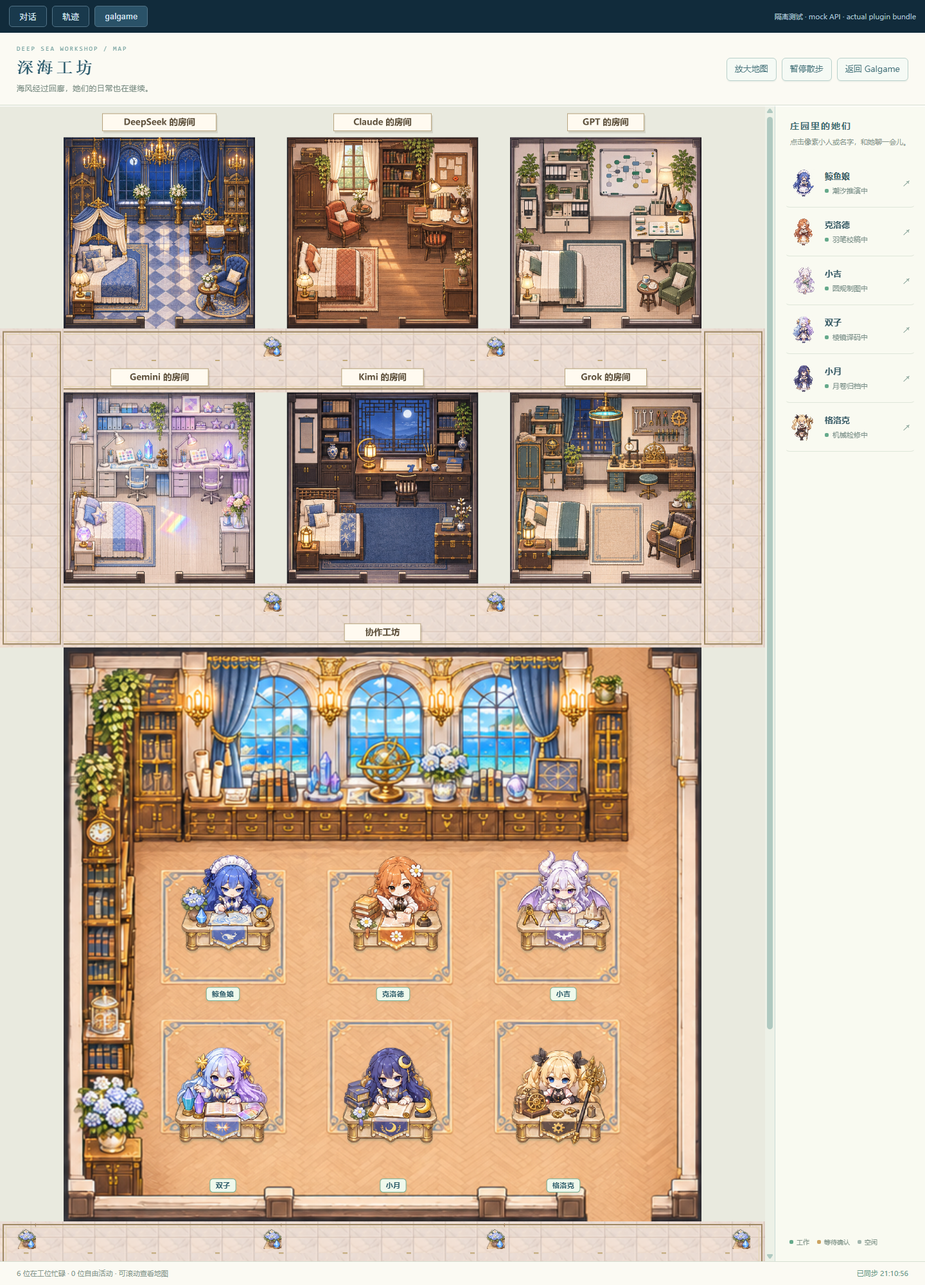
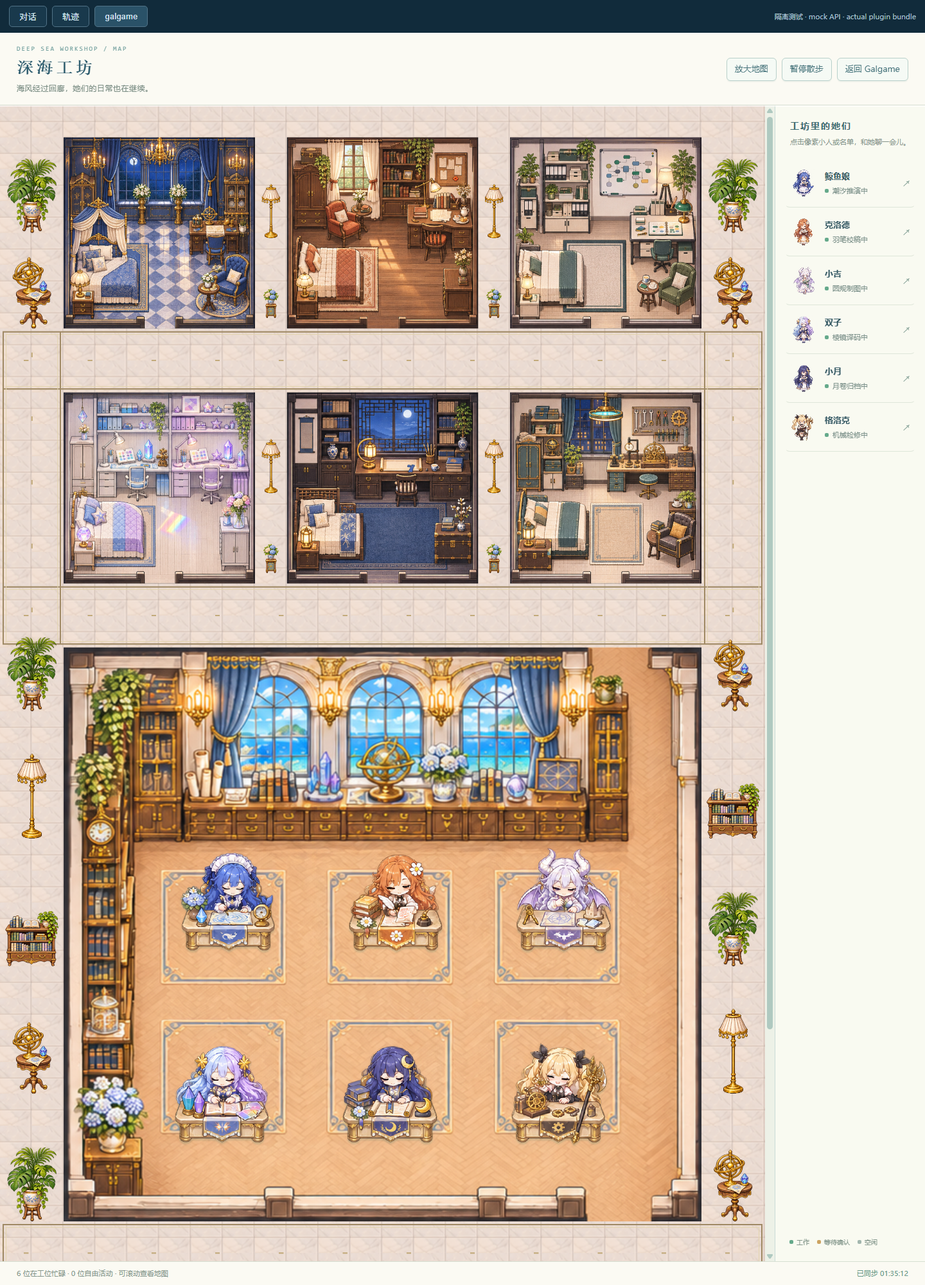
fix: fill workshop corridors and remove map labels

diff --git a/src/client/workshop-art.ts b/src/client/workshop-art.ts
@@ -13,10 +13,13 @@ export const DEFAULT_NAMES: Record<string, string> = {
 }
 export type WorkshopArtAssets = {
   atlas?: CanvasImageSource | null; roomAtlas?: CanvasImageSource | null; publicAtlas?: CanvasImageSource | null
-  residentAtlas?: CanvasImageSource | null
+  residentAtlas?: CanvasImageSource | null; decorAtlas?: CanvasImageSource | null
   workstationAtlas?: CanvasImageSource | null; atlasColumns?: number; atlasRows?: number
   residentAnchors?: Array<Array<{ x: number; y: number }>>
+  /** Per-cell opaque bounds, normalised to 0..1 in the 3×2 decoration sheet. */
+  decorBounds?: Bounds[]
 }
+export type WorkshopDecoration = { kind: number; bounds: Bounds }
 
 type MaterialPatch = { cell: number; x: number; y: number; width: number; height: number }
 const MATERIALS = {
@@ -120,7 +123,6 @@ function flowerStand(ctx: CanvasRenderingContext2D, assets: WorkshopArtAssets, t
 }
 
 function gallery(ctx: CanvasRenderingContext2D, assets: WorkshopArtAssets, hall: Bounds): void {
-  floor(ctx, assets, hall)
   ctx.save()
   ctx.beginPath(); ctx.rect(hall.x, hall.y, hall.width, hall.height); ctx.clip()
   const horizontal = hall.width > hall.height
@@ -132,14 +134,101 @@ function gallery(ctx: CanvasRenderingContext2D, assets: WorkshopArtAssets, hall:
   ctx.fillStyle = '#c2aa7a'
   if (horizontal) {
     for (let x = hall.x + 36; x < hall.x + hall.width - 20; x += 96) ctx.fillRect(x, hall.y + hall.height / 2 - 1, 7, 2)
-    // Small generated flower arrangements sit along the edge, off the walking axis.
-    for (const x of [hall.x + 22, hall.x + hall.width / 2 - 184, hall.x + hall.width / 2 + 152, hall.x + hall.width - 54]) {
-      flowerStand(ctx, assets, { x, y: hall.y + 2, width: 32, height: 40 })
-    }
   } else {
     for (let y = hall.y + 36; y < hall.y + hall.height - 20; y += 96) ctx.fillRect(hall.x + hall.width / 2 - 1, y, 2, 7)
   }
   ctx.restore()
+}
+
+function decorationFrame(frames: readonly Bounds[], index: number): Bounds {
+  const frame = frames[index]
+  return frame && [frame.x, frame.y, frame.width, frame.height].every(Number.isFinite)
+    && frame.x >= 0 && frame.y >= 0 && frame.width > 0 && frame.height > 0
+    && frame.x + frame.width <= 1.001 && frame.y + frame.height <= 1.001
+    ? frame : { x: 0, y: 0, width: 1, height: 1 }
+}
+
+function overlaps(a: Bounds, b: Bounds, padding = 0): boolean {
+  return a.x < b.x + b.width + padding && a.x + a.width > b.x - padding
+    && a.y < b.y + b.height + padding && a.y + a.height > b.y - padding
+}
+
+/** Deterministic, inspectable placement; furniture never changes the walking graph. */
+export function workshopDecorations(layout: WorkshopLayout, frames: readonly Bounds[] = []): WorkshopDecoration[] {
+  const candidates: Array<{ kind: number; x: number; y: number; compact?: boolean }> = []
+  const add = (kind: number, x: number, y: number, compact = false) => candidates.push({ kind, x, y, compact })
+  const roomRows = [...new Set(layout.rooms.filter((room) => room.kind !== 'office').map((room) => room.y))].sort((a, b) => a - b)
+  for (const y of roomRows) {
+    const rooms = layout.rooms.filter((room) => room.kind !== 'office' && room.y === y).sort((a, b) => a.x - b.x)
+    const gaps: Array<{ x: number; width: number }> = []
+    let cursor = 0
+    for (const room of rooms) { gaps.push({ x: cursor, width: room.x - cursor }); cursor = room.x + room.width }
+    gaps.push({ x: cursor, width: layout.width - cursor })
+    for (const gap of gaps) {
+      if (gap.width >= 180) {
+        add(0, gap.x + gap.width * .33, y + 150)
+        add(4, gap.x + gap.width * .67, y + 266)
+        add(5, gap.x + gap.width * .67, y + 130)
+        add(3, gap.x + gap.width * .33, y + 278)
+      } else if (gap.width >= 80) {
+        add(0, gap.x + gap.width / 2, y + 144)
+        add(5, gap.x + gap.width / 2, y + 288)
+      } else if (gap.width >= 40) {
+        add(2, gap.x + gap.width / 2, y + 152, true)
+        add(1, gap.x + gap.width / 2, y + 272, true)
+      }
+    }
+  }
+  for (let y = TILE_SIZE * 3, row = 0; y < layout.height - 20; y += TILE_SIZE * 4, row++) {
+    add([0, 2, 3, 5][row % 4], TILE_SIZE, y)
+    add([5, 3, 0, 2][row % 4], layout.width - TILE_SIZE, y)
+  }
+  for (const hall of layout.halls) if (hall.width > hall.height) {
+    for (let x = hall.x + 24; x < hall.x + hall.width - 24; x += TILE_SIZE * 4) add(1, x, hall.y + 30, true)
+  }
+
+  const navigation: Bounds[] = []
+  for (const [from, neighbors] of Object.entries(layout.edges)) for (const to of neighbors) {
+    if (from > to) continue
+    const a = layout.nodes[from], b = layout.nodes[to]
+    navigation.push({ x: Math.min(a.x, b.x) - 18, y: Math.min(a.y, b.y) - 18,
+      width: Math.abs(a.x - b.x) + 36, height: Math.abs(a.y - b.y) + 36 })
+  }
+  const doors = layout.rooms.flatMap((room) => room.doors.map((door) => ({ x: door.x - 60, y: door.y - 32, width: 120, height: 64 })))
+  const limits = [[82, 112], [60, 82], [46, 128], [80, 96], [144, 100], [88, 108]]
+  const decorations: WorkshopDecoration[] = []
+  const maximum = Math.min(40, Math.max(12, Math.ceil(layout.height / TILE_SIZE * .75)))
+  for (const candidate of candidates) {
+    const frame = decorationFrame(frames, candidate.kind)
+    const [maxWidth, maxHeight] = candidate.compact
+      ? candidate.kind === 2 ? [28, 88] : [32, 44] : limits[candidate.kind]
+    const scale = Math.min(maxWidth / frame.width, maxHeight / frame.height)
+    const width = frame.width * scale, height = frame.height * scale
+    const bounds = { x: candidate.x - width / 2, y: candidate.y - height, width, height }
+    if (bounds.x < 8 || bounds.y < 8 || bounds.x + width > layout.width - 8 || bounds.y + height > layout.height - 8) continue
+    if (layout.rooms.some((room) => overlaps(bounds, room, 6))
+      || layout.stations.some((station) => overlaps(bounds, station, 8))
+      || doors.some((door) => overlaps(bounds, door))
+      || navigation.some((edge) => overlaps(bounds, edge))
+      || decorations.some((other) => overlaps(bounds, other.bounds, 16))) continue
+    decorations.push({ kind: candidate.kind, bounds })
+    if (decorations.length >= maximum) break
+  }
+  return decorations
+}
+
+function scenery(ctx: CanvasRenderingContext2D, assets: WorkshopArtAssets, layout: WorkshopLayout): void {
+  const targets = workshopDecorations(layout, assets.decorBounds)
+  const size = assets.decorAtlas ? imageSize(assets.decorAtlas) : null
+  for (const target of targets) {
+    if (assets.decorAtlas && size?.width && size.height) {
+      const frame = decorationFrame(assets.decorBounds || [], target.kind)
+      const width = size.width / 3, height = size.height / 2
+      ctx.drawImage(assets.decorAtlas, (target.kind % 3 + frame.x) * width,
+        (Math.floor(target.kind / 3) + frame.y) * height, frame.width * width, frame.height * height,
+        target.bounds.x, target.bounds.y, target.bounds.width, target.bounds.height)
+    } else if (target.kind === 1) flowerStand(ctx, assets, target.bounds)
+  }
 }
 
 function officeInterior(ctx: CanvasRenderingContext2D, assets: WorkshopArtAssets, office: WorkshopRoom): void {
@@ -173,6 +262,8 @@ export function drawWorkshop(ctx: CanvasRenderingContext2D, layout: WorkshopLayo
   ctx.fillStyle = '#e9eadf'
   ctx.fillRect(0, 0, layout.width, layout.height)
   if (assets.atlas || assets.roomAtlas || assets.publicAtlas) {
+    // A single material covers all exterior floor, including margins and room gaps.
+    floor(ctx, assets, { x: 0, y: 0, width: layout.width, height: layout.height })
     for (const hall of layout.halls) gallery(ctx, assets, hall)
     for (const room of layout.rooms) {
       if (room.kind === 'office') { officeInterior(ctx, assets, room); continue }
@@ -183,20 +274,10 @@ export function drawWorkshop(ctx: CanvasRenderingContext2D, layout: WorkshopLayo
       else if (assets.atlas) completeRoom(ctx, assets.atlas, room.kind === 'dorm' ? 0 : room.atlasIndex,
         room, assets.atlasColumns || 3, assets.atlasRows || 2)
     }
+    scenery(ctx, assets, layout)
   }
   // Fixed room props are intentionally omitted: the full interiors already contain them.
   for (const station of layout.stations) workFrame(ctx, assets, station.id, station, 0)
-  ctx.textAlign = 'center'; ctx.textBaseline = 'middle'
-  ctx.font = '600 13px "Microsoft YaHei", "PingFang SC", sans-serif'
-  for (const room of layout.rooms) {
-    const labelWidth = Math.min(room.width - 24, Math.max(116, room.label.length * 12 + 28))
-    const left = room.x + (room.width - labelWidth) / 2, top = room.y - 36
-    // An independent plaque above the room leaves every interior detail visible.
-    ctx.fillStyle = '#5c513b24'; ctx.fillRect(left + 2, top + 3, labelWidth, 27)
-    ctx.fillStyle = '#fffaf0'; ctx.fillRect(left, top, labelWidth, 27)
-    ctx.strokeStyle = '#b8a57f'; ctx.lineWidth = 1; ctx.strokeRect(left + .5, top + .5, labelWidth - 1, 26)
-    ctx.fillStyle = '#5f523d'; ctx.fillText(room.label, room.x + room.width / 2, top + 14)
-  }
   ctx.restore()
 }
 /** x/y is the ground footpoint. At a desk it is the approach square south of the table. */

diff --git a/src/client/workshop-map.ts b/src/client/workshop-map.ts
@@ -1,6 +1,6 @@
 import React, { useEffect, useRef, useState } from 'react'
 import { DEFAULT_NAMES, drawWorkshop, drawResident } from './workshop-art'
-import { WORKSHOP_ART, WORKSHOP_SPRITE_ANCHORS, WORKSHOP_WORK_ACTIVITIES } from './workshop.generated'
+import { WORKSHOP_ART, WORKSHOP_SPRITE_ANCHORS, WORKSHOP_WORK_ACTIVITIES, WORKSHOP_DECOR_BOUNDS } from './workshop.generated'
 import { createWorkshopLayout, createResidents, syncResidents, stepResidents, settleResidents, residentActivity, type Resident, type Presence } from './workshop-world'
 
 export const WORKSHOP_CSS = `
@@ -13,7 +13,7 @@ export const WORKSHOP_CSS = `
 .whg-map-floor{position:relative;width:100%;min-width:1152px;margin:auto;isolation:isolate;flex:none}.whg-map-floor[data-zoom=true]{width:150%;min-width:1728px}.whg-map-scene{display:block;width:100%;height:100%;image-rendering:auto}
 .whg-map-person{position:absolute;z-index:2;width:72px;height:96px;transform:translate(-50%,-88px) scale(var(--whg-map-scale,1));transform-origin:50% 88px;padding:0;border:0;background:transparent;color:#315661;overflow:visible;touch-action:manipulation}.whg-map-person:hover,.whg-map-person:focus-visible{z-index:4}.whg-map-person:focus-visible{outline-offset:-4px;border-radius:8px}
 .whg-map-person canvas{position:absolute;display:block;width:96px;height:112px;left:50%;top:-12px;transform:translateX(-50%);margin:0;image-rendering:auto;filter:drop-shadow(0 3px 1px #638b7540)}.whg-map-person:hover canvas{filter:drop-shadow(0 0 5px #fffbd7)}
-.whg-map-person[data-at-desk="true"]{width:192px;height:216px;transform:translate(-50%,-216px) scale(var(--whg-map-scale,1));transform-origin:50% 216px}.whg-map-person[data-at-desk="true"] canvas{width:224px;height:240px;top:0}.whg-map-person[data-at-desk="true"] .whg-map-name{top:224px}.whg-map-name{position:absolute;top:94px;left:50%;transform:translateX(-50%);border:1px solid #aac7bd;border-radius:5px;padding:2px 8px;background:#fffff5f2;color:#2d5c69;font:600 11px/1.4 system-ui,sans-serif;white-space:nowrap;pointer-events:none;box-shadow:0 2px 3px #406f6c15}.whg-map-person[data-status=running] .whg-map-name{border-color:#77af93;background:#eff9ec}.whg-map-person[data-status=waiting] .whg-map-name{border-color:#ceb789;background:#fff7e6}
+.whg-map-person[data-at-desk="true"]{width:192px;height:216px;transform:translate(-50%,-216px) scale(var(--whg-map-scale,1));transform-origin:50% 216px}.whg-map-person[data-at-desk="true"] canvas{width:224px;height:240px;top:0}
 .whg-map-roster{display:flex;flex-direction:column;min-height:0;overflow:auto;border-left:1px solid var(--whg-map-line);background:#f9faf1;padding:22px 15px}.whg-map-roster h2{margin:0 8px 5px;color:#3e6c71;font-size:14px;font-weight:600;letter-spacing:2px}.whg-map-roster-note{margin:0 8px 17px;color:#85948b;font-size:11px;line-height:1.7}.whg-map-resident{display:flex;align-items:center;gap:11px;width:100%;min-height:76px;padding:8px 6px;border:1px solid transparent;border-bottom-color:#dee6d9;background:transparent;color:inherit;text-align:left;border-radius:7px}.whg-map-resident:hover{border-color:#b8d0c2;background:#edf4e9}.whg-map-resident canvas{width:44px;height:52px;flex:none;image-rendering:auto}.whg-map-resident-meta{flex:1;min-width:0}.whg-map-resident-name{display:block;font-size:13px;font-weight:650;overflow:hidden;text-overflow:ellipsis;white-space:nowrap}.whg-map-resident-status{display:block;margin-top:4px;font-size:11px;color:#7b9089;line-height:1.5}.whg-map-resident-arrow{color:#8ea89e;font-size:14px}
 .whg-map-presence-dot{display:inline-block;width:6px;height:6px;margin:0 6px 1px 0;border-radius:2px;background:#a2b6ae}.whg-map-resident[data-status=running] .whg-map-presence-dot{background:#65a98b}.whg-map-resident[data-status=waiting] .whg-map-presence-dot{background:#cca361}
 .whg-map-legend{display:flex;gap:12px;flex-wrap:wrap;margin:auto 7px 0;padding-top:24px;color:#83968b;font-size:10px}.whg-map-legend span{display:inline-flex;align-items:center;gap:5px}.whg-map-legend i{width:6px;height:6px;border-radius:2px;display:inline-block;background:#a2b6ae}.whg-map-legend i.running{background:#65a98b}.whg-map-legend i.waiting{background:#cca361}
@@ -25,7 +25,7 @@ export const WORKSHOP_CSS = `
 @media(prefers-reduced-motion:reduce){.whg-map-person{scroll-behavior:auto}.whg-map-loading .whg-map-empty-symbol{animation:none}}
 `
 
-type WorkshopImages = { atlas: HTMLImageElement; publicAtlas: HTMLImageElement; roomAtlas: HTMLImageElement; residentAtlas: HTMLImageElement; workstationAtlas: HTMLImageElement; atlasColumns: number; atlasRows: number; residentAnchors: Array<Array<{ x: number; y: number }>> }
+type WorkshopImages = { atlas: HTMLImageElement; publicAtlas: HTMLImageElement; roomAtlas: HTMLImageElement; residentAtlas: HTMLImageElement; workstationAtlas: HTMLImageElement; decorAtlas: HTMLImageElement; decorBounds: Array<{ x: number; y: number; width: number; height: number }>; atlasColumns: number; atlasRows: number; residentAnchors: Array<Array<{ x: number; y: number }>> }
 let workshopImages: Promise<WorkshopImages> | null = null
 
 function loadWorkshopImages(): Promise<WorkshopImages> {
@@ -39,8 +39,8 @@ function loadWorkshopImages(): Promise<WorkshopImages> {
     image.src = source
   })
   workshopImages = Promise.all([load('workshop-map-atlas'), load('workshop-resident-atlas'), load('workshop-workstation-atlas'),
-    load('workshop-room-atlas')])
-    .then(([atlas, residentAtlas, workstationAtlas, roomAtlas]) => ({ atlas, publicAtlas: atlas, residentAtlas, workstationAtlas, roomAtlas, atlasColumns: 2, atlasRows: 2, residentAnchors: WORKSHOP_SPRITE_ANCHORS }))
+    load('workshop-room-atlas'), load('workshop-decor-atlas')])
+    .then(([atlas, residentAtlas, workstationAtlas, roomAtlas, decorAtlas]) => ({ atlas, publicAtlas: atlas, residentAtlas, workstationAtlas, roomAtlas, decorAtlas, decorBounds: WORKSHOP_DECOR_BOUNDS, atlasColumns: 2, atlasRows: 2, residentAnchors: WORKSHOP_SPRITE_ANCHORS }))
     .catch((error) => { workshopImages = null; throw error })
   return workshopImages
 }
@@ -260,13 +260,12 @@ export function WorkshopMap(props: {
               style: { left: resident.x / layout.width * 100 + '%', top: resident.y / layout.height * 100 + '%' },
               disabled: !!entering, onClick: () => void enter(resident),
               'aria-label': '与' + resident.name + '对话，' + statusText(resident),
-              title: resident.name + ' · ' + statusText(resident) + ' · 点击对话',
-            }, React.createElement(PixelAvatar, { resident, frame, images: images! }), React.createElement('span', { className: 'whg-map-name' }, entering === resident.id ? '进入中…' : resident.name))),
+            }, React.createElement(PixelAvatar, { resident, frame, images: images! }))),
           ),
         ),
         React.createElement('aside', { className: 'whg-map-roster', 'aria-label': '工坊角色名单' },
-          React.createElement('h2', null, '庄园里的她们'),
-          React.createElement('p', { className: 'whg-map-roster-note' }, '点击像素小人或名字，和她聊一会儿。'),
+          React.createElement('h2', null, '工坊里的她们'),
+          React.createElement('p', { className: 'whg-map-roster-note' }, '点击像素小人或名单，和她聊一会儿。'),
           catalogError ? React.createElement('p', { className: 'whg-map-catalog-note', role: 'status' }, '模型目录暂时无法更新，先保留已接入的角色。') : null,
           people.map((resident) => React.createElement('button', {
             key: resident.id, type: 'button', className: 'whg-map-resident', 'data-status': resident.status,

diff --git a/assets/workshop/README.md b/assets/workshop/README.md
@@ -8,9 +8,10 @@
 | `themed-rooms-atlas.png` | Codex 内置绘图，以六个默认视觉小说背景为室内参考 | 1536 × 1024，3 列 × 2 行，每格 512 × 512；依次为 DeepSeek、Claude、GPT、Gemini、Kimi、Grok 的主题宿舍。 |
 | `residents-atlas-builtin.png` | Codex 内置绘图；工具未暴露具体模型版本 | 1536 × 1024 透明 PNG，6 列 × 4 行；列对应六位模型娘，行对应待机、两帧行走、读写工作。 |
 | `workstations-rpg-atlas.png` | Codex 内置绘图，以角色图集为身份参考 | 1374 × 1145 透明 PNG，6 列 × 5 行；空工位、三帧专属工作循环、等待确认。 |
+| `decor-atlas-builtin.png` | Codex 内置绘图；工具未暴露具体模型版本 | 1536 × 1024 透明 PNG，3 列 × 2 行；依次为盆栽、花台、落地灯、书柜、长凳和天球仪。 |
 | [`logo-simple.png`](../../docs/brand/logo-simple.png) | 经用户确认改用 Codex 内置绘图 | 1254 × 1254 透明 PNG，当前 README 简约鲸尾与星光图标。 |
 
-当前运行的公共区、主题宿舍、角色和专属工位共四张图集，均由 Codex 内置绘图制作；工具未暴露具体模型版本，不将其标为 Image 2.6 产物。生成提示保存在 [`generation-prompts.json`](generation-prompts.json)，实际来源、生成记录、尺寸与 SHA-256 保存在 [`manifest.json`](manifest.json)。
+当前运行的公共区、主题宿舍、角色、专属工位和室外装饰共五张图集，均由 Codex 内置绘图制作；工具未暴露具体模型版本，不将其标为 Image 2.6 产物。生成提示保存在 [`generation-prompts.json`](generation-prompts.json)，实际来源、生成记录、尺寸与 SHA-256 保存在 [`manifest.json`](manifest.json)。
 
 原始 `manor-atlas-image26.png`（3072 × 2048）和最初的繁复 Logo 来自 GPT Image 2.6 Sunburst，均已被替换，不再作为当前运行素材内嵌。原庄园图保留在 Git 源码中，旧图的提示、生成记录与哈希保留在清单中，供追溯与重建历史版本；它们不代表当前地图或 Logo 的生成来源。
 
@@ -29,14 +30,16 @@
 
 ## 渲染与动画
 
-原始 PNG 保持生成分辨率，角色、工位与 Logo 保留透明通道。行走时按完整图格截取，不裁掉翅膀、角、尾巴或工具；清单中记录各动作的脚点，将不同姿势对齐到同一地面。行走人物实际显示约 64–75 × 90 像素，地图与人物画布使用 2 倍像素缓冲。入座工作时改为完整的 192 × 192 专属工位帧，人物在桌后，桌面遮住下半身。
+原始 PNG 保持生成分辨率，角色、工位、室外装饰与 Logo 保留透明通道。行走时按完整图格截取，不裁掉翅膀、角、尾巴或工具；清单中记录各动作的脚点，将不同姿势对齐到同一地面。行走人物实际显示约 64–75 × 90 像素，地图与人物画布使用 2 倍像素缓冲。入座工作时改为完整的 192 × 192 专属工位帧，人物在桌后，桌面遮住下半身。
 
-导航使用 48px 正交网格。主题宿舍、茶水休息室和海底观景室均以完整的新房间背景呈现，保留家具与建筑细节；公共办公区也使用完整重绘的室内背景，包含书架、长柜、窗户与仪器，再布置专属工位。回廊使用新背景中的地板，并放置透明花台，房名牌放在房间外。所有路线穿门通行并避开桌子阻挡范围，工位路线脚点位于桌南侧地面。角色抵达该点后才切入座动画。
+导航使用 48px 正交网格。主题宿舍、茶水休息室和海底观景室均以完整的新房间背景呈现，保留家具与建筑细节；公共办公区也使用完整重绘的室内背景，包含书架、长柜、窗户与仪器，再布置专属工位。房间以外的空地、回廊和边缘连续铺设瓷砖，盆栽、花台、落地灯、书柜、长凳和天球仪布置在通路以外，避开门口和行走路线。
+
+场景内不显示房名或人物姓名。侧栏“工坊里的她们”保留角色名单、工作状态和选择入口；点击场景中的角色形象也仍可进入对话。所有路线穿门通行并避开桌子阻挡范围，工位路线脚点位于桌南侧地面。角色抵达该点后才切入座动画。
 
 办公循环分别为：鲸鱼娘调整潮汐仪并推演水纹，Claude 羽笔校稿和翻页，GPT 使用圆规与计划卡制图，Gemini 调整双棱镜，Kimi 整理月卷与书签，Grok 用工具检修小机械。三帧改变对应手部、工具与页面状态，桌椅在各帧中保持同一位置；等待确认使用单独静止帧。空工位和入座帧共用同一组图格位置。
 
 宿舍按 Harness 中已接入且配置可用的模型系列动态拼接：只接入 DeepSeek 就只显示她的一间宿舍，同系列的多个版本共用同一角色。未接入的角色不占房间；宿舍每排最多三间，第二排通过侧回廊连通。公共区域使用四格新背景图集，当前地图没有温室入口；旧六格原图里的温室属于历史素材。
 
-`npm run embed:art` 校验四张运行图集的尺寸、哈希、动作网格与脚点，并生成 `src/client/workshop.generated.ts`，随后由构建过程内嵌到客户端。npm 发布包不重复携带原始图集，也不内嵌已替换的 Image 2.6 原图；Git 源码保留新旧原图以支持重建。打开地图、闲逛和切换动作不会调用图像模型或产生生成费用。
+`npm run embed:art` 校验五张运行图集的尺寸、哈希、动作网格与脚点，并生成 `src/client/workshop.generated.ts`，随后由构建过程内嵌到客户端。npm 发布包不重复携带原始图集，也不内嵌已替换的 Image 2.6 原图；Git 源码保留新旧原图以支持重建。打开地图、闲逛和切换动作不会调用图像模型或产生生成费用。
 
 这些 AI 辅助图片遵循项目的 [CC BY-NC-SA 4.0 美术许可边界](../../LICENSE.md)，仅在维护者持有相应权利的范围内提供。角色沿用项目现有非官方同人设定，原角色来源与署名见 [NOTICE](../../NOTICE.md)。周围的布局、动画、加载器和其他程序代码继续采用 MIT。

diff --git a/docs/mechanics.md b/docs/mechanics.md
@@ -26,7 +26,9 @@ Galgame 顶栏“工坊地图”在当前 Galgame 内打开俯视像素地图，
 
 导航采用 48px 正交网格，路线穿门通行。六个主题宿舍分别参考各角色默认视觉小说背景，保留各自的家具、窗饰、配色和标志物，并加入床铺与收纳：DeepSeek 的蓝金宫殿、Claude 的暖木写作书房、GPT 的绿色协作工作坊、Gemini 的蓝紫双棱镜工坊、Kimi 的中式月夜书房和 Grok 的机械工具工坊。DeepSeek 参考实际默认的深海宫殿，海边书房仍只是可选替代背景；地图主题不跟随用户上传背景重新生成。
 
-主题宿舍以及公共工作区、茶水休息室、海底观景室与回廊采用完整重绘的背景，保留床铺、书架、桌椅、地毯和摆设，不把房间拆成家具贴片。专属工位布置在工作区室内地板上，房名牌放在房间外。所有地图场景均不含电脑或显示屏；Gemini 原参考图中的屏幕转译为画板、卡册和棱镜。当前地图背景、人物与工位图集均由 Codex 内置绘图制作，工具未暴露具体模型版本。
+主题宿舍以及公共工作区、茶水休息室、海底观景室与回廊采用完整重绘的背景，保留床铺、书架、桌椅、地毯和摆设，不把房间拆成家具贴片。专属工位布置在工作区室内地板上。所有室外空地、房间间隙和边缘连续铺砖，装饰图集提供盆栽、花台、落地灯、书柜、长凳和天球仪，布置时避开门口与通路。地图场景不显示房名或人物姓名，侧栏“工坊里的她们”继续提供角色名单、实时状态和选择入口。
+
+所有地图场景均不含电脑或显示屏；Gemini 原参考图中的屏幕转译为画板、卡册和棱镜。当前地图背景、人物、工位与室外装饰图集均由 Codex 内置绘图制作，工具未暴露具体模型版本。
 
 工作区独立扩大，每个工位为 192 × 192。路线脚点在桌子南侧地面，到达后切换为人物与桌椅合成的入座动作，桌面自然遮住下半身。六位角色各有三帧循环与一帧等待状态：鲸鱼娘做潮汐推演、Claude 羽笔校稿、GPT 圆规制图、Gemini 棱镜译码、Kimi 月卷归档、Grok 机械检修。工作结束后角色回到宿舍，再到公共区域散步、喝茶或看海。首次打开地图时，正在工作的角色直接显示在工位。
 
@@ -86,8 +88,8 @@ Galgame 顶栏“工坊地图”在当前 Galgame 内打开俯视像素地图，
 
 ## 美术清单与构建说明
 
-安装包保留原有 22 项默认美术：六张角色立绘、七张内置背景、八张原始分辨率透明 `whale-*.webp` 表情，以及一张 8 列 × 11 行的 `pet-spritesheet.webp` 桌宠动画图集；另内嵌公共区、主题宿舍、角色行走与专属办公四张图集。逐文件用途、来源、改动与桌宠图集 SHA-256 保留在[默认美术清单](../assets/default/README.md)、[庄园美术清单](../assets/workshop/README.md)和 [NOTICE](../NOTICE.md)，许可索引见[第三方许可](../THIRD_PARTY_LICENSES.md)。
+安装包保留原有 22 项默认美术：六张角色立绘、七张内置背景、八张原始分辨率透明 `whale-*.webp` 表情，以及一张 8 列 × 11 行的 `pet-spritesheet.webp` 桌宠动画图集；另内嵌公共区、主题宿舍、角色行走、专属办公与室外装饰五张图集。逐文件用途、来源、改动与桌宠图集 SHA-256 保留在[默认美术清单](../assets/default/README.md)、[庄园美术清单](../assets/workshop/README.md)和 [NOTICE](../NOTICE.md)，许可索引见[第三方许可](../THIRD_PARTY_LICENSES.md)。
 
-npm 包只携带内嵌美术的客户端 bundle，不重复收录导出原图或生成图源码。Galgame 布局、对话框、控件与装饰的实现公开在 `src/client/index.ts`，没有额外的未公开 UI 图片包。地图图块与人物动作渲染在 `src/client/workshop-art.ts`，交互和路径分别在 `workshop-map.ts` 与 `workshop-world.ts`。当前公共区使用 1254 × 1254 的 `public-rooms-atlas.png` 四格图集，主题宿舍使用 1536 × 1024 的 `themed-rooms-atlas.png` 六格图集，角色行走图集为 1536 × 1024 透明 PNG，专属办公图集为 1374 × 1145 透明 PNG；来源、提示、像素尺寸与完整性记录见 [`assets/workshop/README.md`](../assets/workshop/README.md)。这四张图集随客户端 bundle 内嵌，不需运行时下载。旧 `manor-atlas-image26.png` 及其生成记录仅保留在源码历史素材中，不再作为当前运行图内嵌。README Logo 说明见 [`docs/brand/README.md`](brand/README.md)。
+npm 包只携带内嵌美术的客户端 bundle，不重复收录导出原图或生成图源码。Galgame 布局、对话框、控件与装饰的实现公开在 `src/client/index.ts`，没有额外的未公开 UI 图片包。地图图块与人物动作渲染在 `src/client/workshop-art.ts`，交互和路径分别在 `workshop-map.ts` 与 `workshop-world.ts`。当前公共区使用 1254 × 1254 的 `public-rooms-atlas.png` 四格图集，主题宿舍使用 1536 × 1024 的 `themed-rooms-atlas.png` 六格图集，角色行走图集为 1536 × 1024 透明 PNG，专属办公图集为 1374 × 1145 透明 PNG，新增 `decor-atlas-builtin.png` 为 1536 × 1024 的透明六格装饰图集；来源、提示、像素尺寸与完整性记录见 [`assets/workshop/README.md`](../assets/workshop/README.md)。这五张图集随客户端 bundle 内嵌，不需运行时下载。旧 `manor-atlas-image26.png` 及其生成记录仅保留在源码历史素材中，不再作为当前运行图内嵌。README Logo 说明见 [`docs/brand/README.md`](brand/README.md)。
 
 `lib/`、`src/client/art.generated.ts` 和 `src/client/workshop.generated.ts` 是不提交的构建产物。`prepare` 在源码安装时嵌入默认美术与庄园图集后执行 `tsdown`；克隆后执行 `npm install` 可在本地生成。`npm run sanitize:backgrounds` 剥离六张角色背景的非画面 WebP 元数据，`npm run embed:art` 将白名单原图与校验后的庄园素材写入运行时，`npm run export:art` 反向导出原有 22 项默认美术以供核对。

diff --git a/NOTICE.md b/NOTICE.md
@@ -4,7 +4,7 @@
 
 This public repository includes the exact 22 default image files used by the installed plugin. It does not include a placeholder-art substitute.
 
-It also includes the four current workshop atlases—shared-room backgrounds, themed dorms, resident animation and workstation animation—described in [`assets/workshop/README.md`](assets/workshop/README.md), with dimensions, hashes and generation provenance in its manifest, and the generated brand mark documented in [`docs/brand/README.md`](docs/brand/README.md). These use the project's CC BY-NC-SA 4.0 artwork terms to the extent the maintainer holds the applicable rights. The character atlases follow the existing unofficial character designs and preserve the attribution below.
+It also includes the five current workshop atlases—shared-room backgrounds, themed dorms, resident animation, workstation animation and outdoor decorations—described in [`assets/workshop/README.md`](assets/workshop/README.md), with dimensions, hashes and generation provenance in its manifest, and the generated brand mark documented in [`docs/brand/README.md`](docs/brand/README.md). These use the project's CC BY-NC-SA 4.0 artwork terms to the extent the maintainer holds the applicable rights. The character atlases follow the existing unofficial character designs and preserve the attribution below.
 
 It does **not** include a maintainer or user save, dialogue history, generated CG, uploaded background, uploaded character sprite, API key, or private source-art collection. Those remain local user data and are outside this distribution.
 
@@ -58,9 +58,9 @@ The exported file list is reproducible from the embedded runtime data with `npm 
 
 ## Generated workshop artwork
 
-The current `public-rooms-atlas.png`, `themed-rooms-atlas.png`, `residents-atlas-builtin.png` and `workstations-rpg-atlas.png` were generated with Codex's built-in image generator; the tool does not expose its exact model version. The themed dorms reference the six characters' default visual-novel backgrounds listed above: DeepSeek's deep-sea palace and the Claude, GPT, Gemini, Kimi and Grok study/workshop scenes. Furniture, curtains, colours and distinctive ornaments are retained or translated into complete bedroom interiors. The palace reference retains the whale-girl attribution chain. DeepSeek's optional seaside study is not the default reference for its themed dorm.
+The current `public-rooms-atlas.png`, `themed-rooms-atlas.png`, `residents-atlas-builtin.png`, `workstations-rpg-atlas.png` and `decor-atlas-builtin.png` were generated with Codex's built-in image generator; the tool does not expose its exact model version. The themed dorms reference the six characters' default visual-novel backgrounds listed above: DeepSeek's deep-sea palace and the Claude, GPT, Gemini, Kimi and Grok study/workshop scenes. Furniture, curtains, colours and distinctive ornaments are retained or translated into complete bedroom interiors. The palace reference retains the whale-girl attribution chain. DeepSeek's optional seaside study is not the default reference for its themed dorm.
 
-Shared workroom, tea-lounge, observatory and gallery backgrounds were newly drawn as complete interiors. The map preserves their furniture and architectural detail and contains no computers or monitors; screen-based details in reference scenes are translated into drawing materials, cards and prisms. The four runtime atlases and current minimalist logo use the project's CC BY-NC-SA 4.0 artwork terms to the extent the maintainer holds the applicable rights.
+Shared workroom, tea-lounge, observatory and gallery backgrounds were newly drawn as complete interiors. The map preserves their furniture and architectural detail and contains no computers or monitors; screen-based details in reference scenes are translated into drawing materials, cards and prisms. Outdoor spaces, gaps and borders use continuous tiled flooring. The transparent decoration atlas adds potted plants, flower stands, lamps, bookcases, benches and an armillary sphere outside doorways and walking paths. Room and character nameplates are absent from the scene; the “工坊里的她们” sidebar retains selectable names and live status. The five runtime atlases and current minimalist logo use the project's CC BY-NC-SA 4.0 artwork terms to the extent the maintainer holds the applicable rights.
 
 The earlier GPT Image 2.6 Sunburst `manor-atlas-image26.png` is preserved in the source tree as a superseded asset, and the earlier ornate logo's provenance remains in the manifest. Neither is embedded as current runtime artwork. Prompts, exact files, dimensions and hashes are documented in [`assets/workshop/README.md`](assets/workshop/README.md) and its manifest; the program code and renderer remain MIT-licensed.
 

diff --git a/README.ja.md b/README.ja.md
@@ -32,6 +32,7 @@ Harness で作業する合間に、モデル娘との「ひと味違う」同僚
 - Galgame 上部の「工坊地图」から、現在の Galgame 内にマップを開けます。キャラクターや名簿をクリックすると、その外見を固定して会話へ移ります。返信モデルの設定は保持され、進行中の小劇場は「继续小剧场」から再開できます。
 - 複数モデルと子 Agent の同時作業、確認待ち表示、拡大、スクロール、散歩の一時停止に対応。動きを減らす設定に従い、マップ自体はモデル呼び出しや位置の保存を行いません。
 - 寮は各キャラクターの既定のビジュアルノベル背景を参考に、深海宮殿、琥珀色の書斎、共同作業室、双プリズムのアトリエ、月夜の読書室、電子工房の6テーマで描かれています。家具・カーテン・小物を一枚の室内画として保ち、共用作業室、ティーラウンジ、展望室と回廊にも新しい背景を使用します。マップ内にコンピューターやモニターはありません。
+- 屋外の隙間や外縁までタイルを連続して敷き、鉢植え、花台、照明、本棚、ベンチと天球儀を通路の外に配置しています。シーン内には部屋名や人物名を表示せず、サイドバー「工坊里的她们」に選択可能な名簿と作業状態を残しています。
 - 4 段階の文字速度、当時の表情も見返せる会話履歴、H / 右クリックによる UI 非表示。
 - Web Audio による効果音と BGM。個別に切り替え・音量調整ができ、初期状態はどちらもオフ。
 - 最近の DSH 作業カテゴリ、ローカルの日付、前回の会話からの時間を踏まえた応答。
@@ -188,7 +189,7 @@ npm run verify
 - **ZipZipPipe**が Claude・GPT・Grok の既定立ち絵を制作しました（[原作投稿](https://www.bilibili.com/opus/1233069202138464289)）。本作では白背景を除去し、人物に合わせて切り抜き、WebP に変換しています。
 - **f0909172434 / [dsh-deepseek-girl-pet](https://github.com/f0909172434/dsh-deepseek-girl-pet)** がペットの実装と未変更のアトラスを提供しました。本作は統合方法とスタイルを調整し、クリックで Galgame を開く動作を追加しています。
 - Gemini・Kimi の立ち絵、6 点のキャラクター背景、Galgame UI は本作向けに制作した非公式の AI 支援素材です。
-- 現在のテーマ別寮、共用区域、住人・専用作業台のアトラス、簡約ロゴは Codex の内蔵画像生成機能で制作しました。ツールは具体的なモデルのバージョンを公開していません。参照背景、ライセンスと旧素材の記録は[工房素材の説明](assets/workshop/README.md)をご覧ください。
+- 現在のテーマ別寮、共用区域、住人、専用作業台、屋外装飾の5枚のアトラスと簡約ロゴは Codex の内蔵画像生成機能で制作しました。ツールは具体的なモデルのバージョンを公開していません。参照背景、ライセンスと旧素材の記録は[工房素材の説明](assets/workshop/README.md)をご覧ください。
 
 完全なファイル一覧、出所、ハッシュは[既定素材の説明](assets/default/README.md)、ファイル別のライセンスは [NOTICE](NOTICE.md)、[第三者ライセンス一覧](THIRD_PARTY_LICENSES.md)、[上流ライセンス原文](assets/default/licenses/)にあります。キャラクターは非公式ファンデザインで、名称・商標は各権利者に帰属し、各社との所属・提携・公認関係はありません。
 

diff --git a/README.en.md b/README.en.md
@@ -32,6 +32,7 @@ Between Harness tasks, discover an “extraordinary” coworker relationship wit
 - Open “工坊地图” in the Galgame toolbar; the map opens inside the current Galgame. Click a character or roster entry to enter her dialogue; this pins her appearance while preserving your reply-model setting. An existing side story can be resumed with “继续小剧场”.
 - The map supports concurrent models and subagents, waiting indicators, zoom, scrolling, and paused strolling. It respects reduced-motion settings and does not call a model or save idle positions.
 - Each character has a themed dorm based on her default visual-novel background: the deep-sea palace, amber writing study, collaboration workshop, twin-prism studio, moonlit reading study, or electronics workshop. Furniture, curtains and ornaments stay in the complete room illustrations; the shared workroom, tea lounge, observatory and gallery use newly drawn complete backgrounds. The map contains no computers or monitors.
+- Outdoor gaps and borders are continuously tiled, with plants, flower stands, lamps, bookcases, benches and an armillary sphere placed clear of walking paths. The scene has no room or character nameplates; the “工坊里的她们” sidebar keeps selectable names and live status.
 - Four text speeds, dialogue history with recorded expressions, and H / right-click to hide the interface.
 - Web Audio sound effects and BGM, with separate toggles and volume control; both are off by default.
 - Replies informed by recent DSH task categories, the local date, and time since your last conversation.
@@ -188,7 +189,7 @@ Thanks to the creators and upstream projects:
 - **ZipZipPipe** drew the default Claude, GPT, and Grok sprites ([original post](https://www.bilibili.com/opus/1233069202138464289)); this project removed the white backgrounds, cropped the figures, and converted them to WebP.
 - **f0909172434 / [dsh-deepseek-girl-pet](https://github.com/f0909172434/dsh-deepseek-girl-pet)** supplied the pet implementation and unchanged atlas; this project adapted integration and styling and added click-to-open Galgame.
 - The Gemini and Kimi sprites, six character backgrounds, and Galgame UI are unofficial AI-assisted work made for this project.
-- The current themed dorms, shared areas, resident and workstation atlases, and minimalist logo were made with Codex's built-in image generator, which does not expose its exact model version. See the [workshop-art guide](assets/workshop/README.md) for references, licenses and historical asset records.
+- The five current themed-dorm, shared-area, resident, workstation and outdoor-decoration atlases, and the minimalist logo were made with Codex's built-in image generator, which does not expose its exact model version. See the [workshop-art guide](assets/workshop/README.md) for references, licenses and historical asset records.
 
 The [default-art guide](assets/default/README.md) preserves the full file list, sources, and hash information. See [NOTICE](NOTICE.md), the [third-party index](THIRD_PARTY_LICENSES.md), and [upstream license texts](assets/default/licenses/) for file-level licensing. All characters are unofficial fan designs; names and trademarks belong to their owners, with no affiliation, partnership, or endorsement.
 

diff --git a/README.md b/README.md
@@ -106,9 +106,11 @@ allowBuilds:
 
 六位模型娘各有主题宿舍，分别参考她们默认视觉小说背景中的深海宫殿、琥珀写作书房、协作工作坊、双棱镜创意工坊、月夜阅读书房和电子工坊。床铺、书架、窗饰与摆设完整保留；公共工作区、茶水休息室、海底观景室与回廊使用重新绘制的完整背景，不把家具拆成贴片，场景内不含电脑或显示屏。
 
+房间之间和边缘空地连续铺满瓷砖，盆栽、花台、落地灯、书柜、长凳和天球仪沿通路之外布置。场景内不显示房名或人物姓名，侧栏“工坊里的她们”保留可点击的角色名单与工作状态。
+
 路线沿 48px 网格穿门通行。角色从桌前地面进入工位后，切换为坐在桌后的专属动作：鲸鱼娘做潮汐推演、Claude 羽笔校稿、GPT 圆规制图、Gemini 棱镜译码、Kimi 月卷归档、Grok 机械检修。
 
-点击像素小人或角色名单，会进入她的 Galgame 并固定出场角色，保留原来的回复模型设置。已有小剧场会保留进度，可用“继续小剧场”返回。地图闲逛位置不写入存档，也不调用模型生成；系统开启“减少动态效果”时改为静态位置显示。
+点击像素小人或侧栏“工坊里的她们”中的角色，会进入她的 Galgame 并固定出场角色，保留原来的回复模型设置。已有小剧场会保留进度，可用“继续小剧场”返回。地图闲逛位置不写入存档，也不调用模型生成；系统开启“减少动态效果”时改为静态位置显示。
 
 ![深海工坊像素地图，演示状态](docs/screenshots/workshop-map.png)
 
@@ -204,7 +206,7 @@ npm run verify
 - **ZipZipPipe**绘制 Claude、GPT、Grok 默认立绘（[原作动态](https://www.bilibili.com/opus/1233069202138464289)）；本项目去除白底、按人物裁切并转为 WebP。
 - **f0909172434 / [dsh-deepseek-girl-pet](https://github.com/f0909172434/dsh-deepseek-girl-pet)** 提供桌宠实现与原样保留的图集；本项目调整集成、样式并加入点击进入 Galgame 的交互。
 - Gemini、Kimi 立绘、六张角色背景和 Galgame UI 为本项目制作的非官方 AI 辅助素材。
-- 当前庄园主题宿舍、公共区、人物和专属工位图集及简约 Logo 使用 Codex 内置绘图制作；工具未提供具体模型版本。图片与参考背景、许可和历史素材记录见[庄园美术说明](assets/workshop/README.md)。
+- 当前庄园主题宿舍、公共区、人物、专属工位与室外装饰五张图集及简约 Logo 使用 Codex 内置绘图制作；工具未提供具体模型版本。图片与参考背景、许可和历史素材记录见[庄园美术说明](assets/workshop/README.md)。
 
 完整文件清单、来源与哈希见[默认美术说明](assets/default/README.md)，逐文件许可见 [NOTICE](NOTICE.md)、[第三方许可索引](THIRD_PARTY_LICENSES.md)及[上游许可原文](assets/default/licenses/)。所有角色均为非官方同人形象，名称与商标归各权利人，本项目与相关厂商无隶属、合作或背书关系。
 

diff --git a/THIRD_PARTY_LICENSES.md b/THIRD_PARTY_LICENSES.md
@@ -36,7 +36,7 @@ The Gemini and Kimi standing sprites and six `bg-*.webp` role backgrounds are un
 
 ## Generated workshop and brand artwork
 
-The four current runtime atlases—shared-room backgrounds, six themed dorms, resident animation and character-specific workstation animation—and the current minimalist brand mark were produced with Codex's built-in image generator after the user approved those routes. The tool does not expose its exact model version. The themed dorms reference each character's default visual-novel background, preserving furniture and visual motifs; DeepSeek references the credited deep-sea palace rather than its optional seaside-study background. The newly drawn shared rooms preserve their interiors, and the map uses books, drawing materials, prisms and mechanical tools instead of computers or monitors.
+The five current runtime atlases—shared-room backgrounds, six themed dorms, resident animation, character-specific workstation animation and outdoor decorations—and the current minimalist brand mark were produced with Codex's built-in image generator after the user approved those routes. The tool does not expose its exact model version. The themed dorms reference each character's default visual-novel background, preserving furniture and visual motifs; DeepSeek references the credited deep-sea palace rather than its optional seaside-study background. The newly drawn shared rooms preserve their interiors, and the map uses books, drawing materials, prisms and mechanical tools instead of computers or monitors. The transparent `decor-atlas-builtin.png` adds plants, flower stands, lamps, bookcases, benches and an armillary sphere beside the continuously tiled outdoor paths.
 
 The earlier `manor-atlas-image26.png` and ornate logo draft were produced with GPT Image 2.6 Sunburst and are superseded; neither is current runtime artwork. The old manor image remains in the source tree, and historical generation records and hashes are retained for provenance. These images follow the project's CC BY-NC-SA 4.0 artwork policy, subject to the rights limitation in [LICENSE.md](LICENSE.md). The resident designs and referenced background material retain the attribution above. See [`assets/workshop/README.md`](assets/workshop/README.md) for the file map and generation record.
 

diff --git a/LICENSE.md b/LICENSE.md
@@ -47,7 +47,7 @@ The preserved `dsh-deep-whale` license and attribution notice are available at:
 
 ## Workshop and brand images — CC BY-NC-SA 4.0
 
-The project-produced public-interior, themed-dormitory, resident-animation and workstation-animation atlases under [`assets/workshop/`](assets/workshop/README.md), and the generated project logo documented under [`docs/brand/`](docs/brand/README.md), follow the same CC BY-NC-SA 4.0 artwork terms and rights limitations described above. The character atlases use the project's existing unofficial character designs; preserve their attribution in [NOTICE.md](NOTICE.md). Embedded image payloads retain those terms, while the surrounding map layout, animation, loading code and documentation remain under MIT.
+The five project-produced public-interior, themed-dormitory, resident-animation, workstation-animation and outdoor-decoration atlases under [`assets/workshop/`](assets/workshop/README.md), and the generated project logo documented under [`docs/brand/`](docs/brand/README.md), follow the same CC BY-NC-SA 4.0 artwork terms and rights limitations described above. The character atlases use the project's existing unofficial character designs; preserve their attribution in [NOTICE.md](NOTICE.md). Embedded image payloads retain those terms, while the surrounding map layout, animation, loading code and documentation remain under MIT.
 
 ## Desktop-pet code and atlas — MIT
 

diff --git a/docs/releases/v0.8.1.md b/docs/releases/v0.8.1.md
@@ -1,0 +1,10 @@
+# v0.8.1 · 连续回廊与无名牌地图
+
+修复房间外侧、房间缝隙和上方区域未铺瓷砖的问题，整个地图底层现在采用连续大理石地砖。
+
+- 新增盆栽、绣球花台、落地灯、书柜、长凳和天球仪六类庄园装饰，摆放时避开门口、人物路线与工位。
+- 移除地图场景中的房间名牌、人物姓名牌和悬浮文字，人物仍可点击或通过键盘选择；侧栏保留角色名单和状态。
+- 侧栏标题改为“工坊里的她们”。
+- 四种语言 README 的 Logo、标题、副标题和语言栏统一居中，正文保持左对齐。
+
+地图原有主题宿舍、实时工作状态、专属办公动画和对话入口继续保留。新增透明装饰由 Codex 内置绘图制作；素材与生成提示见[庄园美术说明](https://github.com/JAdpp/dsh-whale-galgame/blob/v0.8.1/assets/workshop/README.md)。
